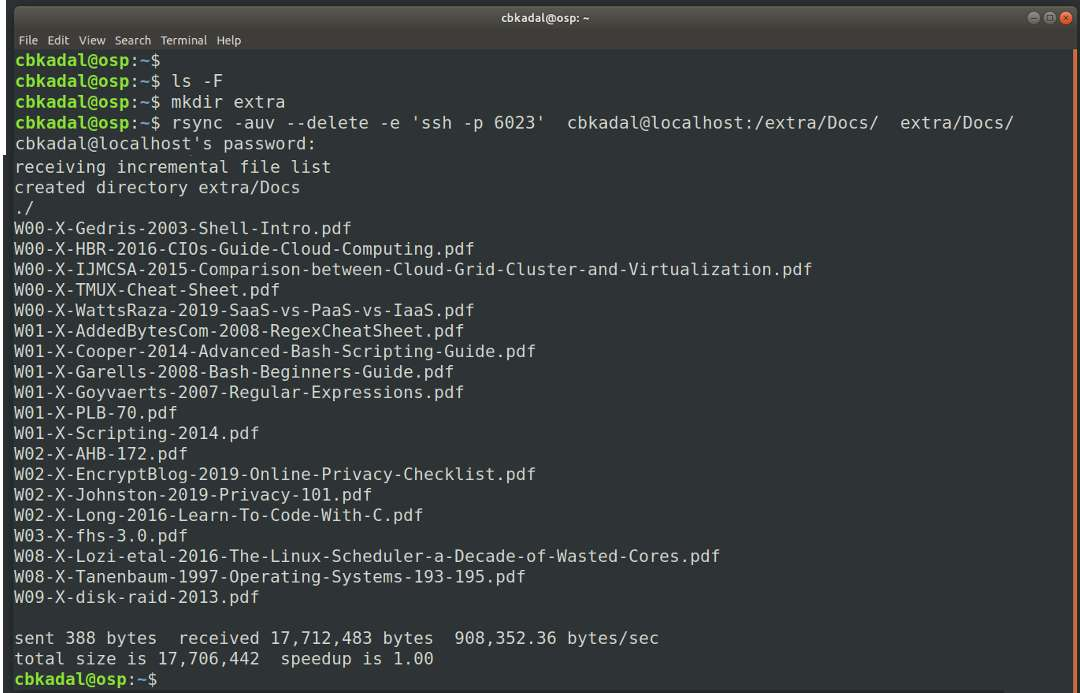
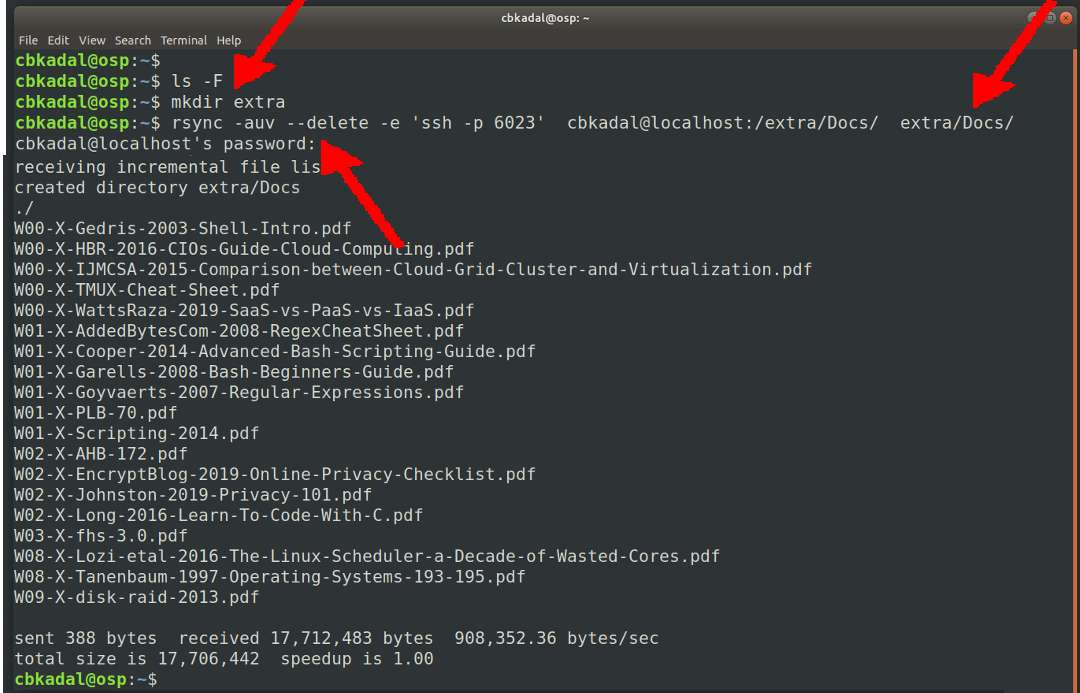
OSP rms46	new file:   CBKadal.md modified:   MoreGNULinux.md Welcome2GNULinux.md _config.yml index.md pictures/cbkadal-01.jpg pictures/cbkadal-02.jpg pictures/cbkadal-03.jpg pictures/cbkadal-05.jpg pictures/cbkadal-10.jpg

diff --git a/CBKadal.md b/CBKadal.md
@@ -1,0 +1,160 @@
+---
+---
+[HOME](index.md)
+[ABOUT](README.md)
+[WEB](https://osp4diss.vlsm.org/)
+[GITHUB](https://github.com/UI-FASILKOM-OS/osp4diss/)
+[TOP](#)
+[BOTTOM](#endofpage)
+[PREV](MoreGNULinux.md)
+[NEXT](index.md)
+
+# Eg. User: cbkadal
+
+These following examples is for user **cbkadal** of guest *osp*.
+Replace **cbkadal** with your own user name.
+
+<br>
+## Set a tunnel from osp (port 6023) to badak (ssh port 22) via kawung.
+
+```
+ssh -L 6023:badak.cs.ui.ac.id:22 cbkadal@kawung.cs.ui.ac.id
+```
+
+<img src="pictures/cbkadal-01.jpg" width="960">
+
+<br>
+## Connect to badak via a tunnel.
+
+```
+ssh -p 6023 cbkadal@localhost
+ls -al /extra/
+```
+<img src="pictures/cbkadal-02.jpg" width="960">
+
+<br>
+## Copy from badak:///extra/ to *osp* via tunnel
+
+```
+ls -F
+mkdir extra
+rsync -auv --delete -e 'ssh -p 6023' cbkadal@localhost:/extra/Docs/  extra/Docs/
+```
+
+<img src="pictures/cbkadal-03.jpg" width="960">
+
+<br>
+```
+rsync -auv --delete -e 'ssh -p 6023' cbkadal@localhost:/extra/Slides/  extra/Slides/
+```
+
+<img src="pictures/cbkadal-05.jpg" width="960">
+
+<br>
+## Setup git
+
+Config name and email for git.
+Replace 'Cicak Bin Kadal' with your own name.
+
+```
+gitstat
+git config --global user.email        'cbkadal@DELETE.vlsm.org'
+git config --global user.name         'Cicak Bin Kadal'
+git config --global core.editor       'vi'
+git config --global credential.helper 'cache --timeout=3600'
+git config user.email
+git config user.name
+git config core.editor
+git config credential.helper
+git config --list
+cat ~/.gitconfig
+gitstat
+```
+<br>
+<img src="pictures/cbkadal-07.jpg" width="960">
+
+<br>
+## Cloning a github repository "os202"
+
+<img src="pictures/cbkadal-06.jpg" width="960">
+
+<br>
+```
+cd
+gitstat
+mkdir git
+cd git
+git clone 
+git clone https://github.com/cbkadal/os202.git
+gitstat
+cd git
+gitstat
+```
+
+<img src="pictures/cbkadal-08.jpg" width="960">
+
+<br>
+## Cloning a github repository "SistemOperasi"
+
+<img src="pictures/cbkadal-09.jpg" width="960">
+
+<br>
+```
+cd 
+cd git
+gitstat
+git clone https://github.com/UI-FASILKOM-OS/SistemOperasi.git
+gitstat
+cd SistemOperasi
+gitstat
+```
+
+<img src="pictures/cbkadal-10.jpg" width="960">
+
+<br>
+## Updating mylog.txt
+
+```
+cd
+gitstat
+cd git/os202/TXT
+gitstat
+vi mylog.txt
+```
+
+<img src="pictures/cbkadal-11.jpg" width="960">
+
+<br>
+## mylog.txt
+
+<img src="pictures/cbkadal-12.jpg" width="960">
+
+```
+gitstat
+git add -A
+gitstat
+```
+
+<img src="pictures/cbkadal-13.jpg" width="960">
+
+```
+git commit -m "OS202 cbkadal UPDATE mylog.txt"
+gitstat
+git pull
+git push
+git stat
+```
+
+<img src="pictures/cbkadal-14.jpg" width="960">
+
+<br>
+#### ENDOFPAGE
+[HOME](index.md)
+[ABOUT](README.md)
+[WEB](https://osp4diss.vlsm.org/)
+[GITHUB](https://github.com/UI-FASILKOM-OS/osp4diss/)
+[TOP](#)
+[BOTTOM](#endofpage)
+[PREV](MoreGNULinux.md)
+[NEXT](index.md)
+

diff --git a/Welcome2GNULinux.md b/Welcome2GNULinux.md
@@ -29,7 +29,6 @@ The Complete Linux Course: Beginner to Power User!<br>
 <br>
 
 * [The Linux Command Line for Beginners](https://ubuntu.com/tutorials/command-line-for-beginners)
-* [The Linux Command Line for Beginners](https://ubuntu.com/tutorials/command-line-for-beginners)
 * [40 Basic Linux Commands used Frequently](https://linoxide.com/linux-command/essential-linux-basic-commands/)
 
 <br>

diff --git a/MoreGNULinux.md b/MoreGNULinux.md
@@ -8,7 +8,7 @@
 [TOP](#)
 [BOTTOM](#endofpage)
 [PREV](Welcome2GNULinux.md)
-[NEXT](index.md)
+[NEXT](CBKadal.md)
 
 # More Gnu/Linux
 
@@ -88,6 +88,6 @@ h
 [TOP](#)
 [BOTTOM](#endofpage)
 [PREV](Welcome2GNULinux.md)
-[NEXT](index.md)
+[NEXT](CBKadal.md)
 <br>
 

diff --git a/index.md b/index.md
@@ -24,6 +24,7 @@
 * [More Debian Packages](MoreDebianPackages.md)
 * [Welcome to GNU/Linux](Welcome2GNULinux.md)
 * [More GNU/Linux](MoreGNULinux.md)
+* [Example: Cicak Bin Kadal](CBKadal.md)
 <br><br>
 * [ETC](ETC/)
 <br>
